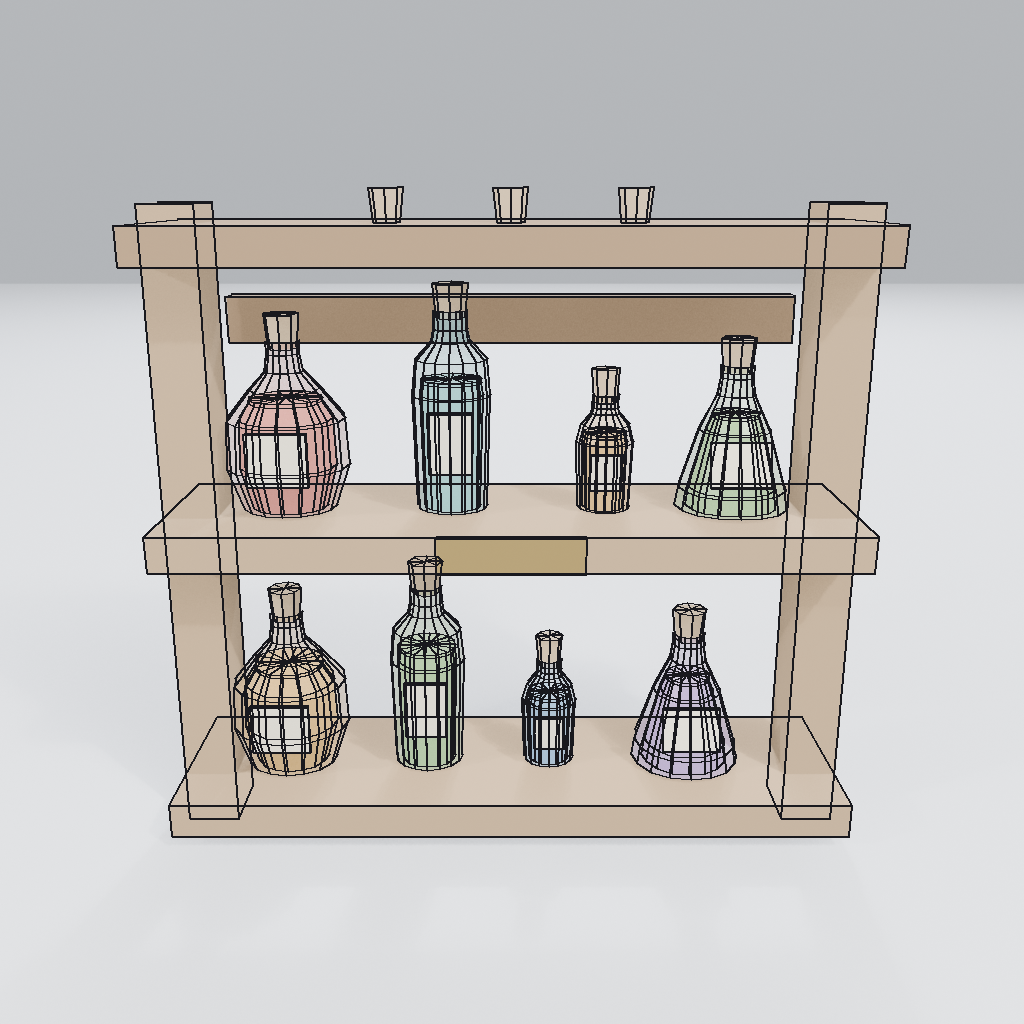
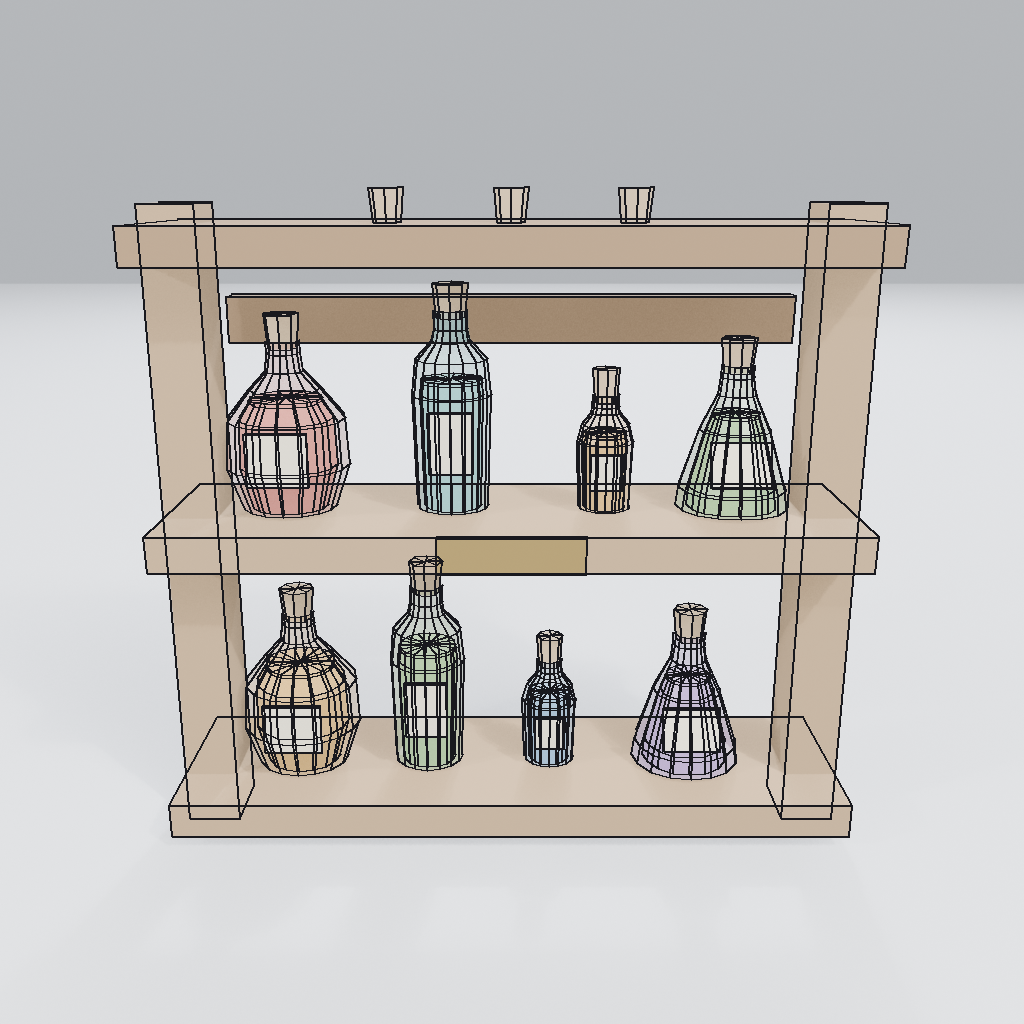
061 修复 059 药水架 Bottle_L1 卡立柱（L1 x -0.20 → -0.19，与 U1 对齐；060 质检复核 PASS：50 部件、2242 面，间距 clips 为空，L1–Post_L 间隙 0.006；美观图/线框图/质检拼图重渲重拼）

diff --git a/scenes/060-asset-qa.py b/scenes/060-asset-qa.py
@@ -157,7 +157,7 @@ PROFILES = {
 LATHE_SIDES = 16
 # tag -> (kind, x, z_base, glass, liquid)
 BOTTLES = {
-    "L1": ("round", -0.20, 0.045, "Amber", "Amber"),
+    "L1": ("round", -0.19, 0.045, "Amber", "Amber"),
     "L2": ("tall", -0.075, 0.045, "Green", "Green"),
     "L3": ("vial", 0.035, 0.045, "Blue", "Blue"),
     "L4": ("conical", 0.16, 0.045, "Purple", "Purple"),
@@ -1045,7 +1045,7 @@ def main():
     with open(CHECKLIST, "w", encoding="utf-8") as f:
         f.write("# 060 资产质检单：低模炼金药水架（059）\n\n")
         f.write("被检资产：`scenes/059-lowpoly-potion-rack.blend`（%d 个道具部件，不含地面）。\n" % len(results))
-        f.write("检查方式：Blender bmesh 实测 + 世界坐标实测，非目测估算。059 原文件未改动。\n\n")
+        f.write("检查方式：Blender bmesh 实测 + 世界坐标实测，非目测估算。061 修复后复核：059 源文件已按修复重建（L1 x -0.20 → -0.19）。\n\n")
         f.write("## 结论\n\n")
         f.write("**%s**\n\n" % ("全部通过" if all_ok else "REVIEW NEEDED：见第 7 节待修项"))
         f.write("## 1. 拓扑\n\n")
@@ -1271,6 +1271,9 @@ def main():
                 "不是破洞；其余 34 个部件全部闭合。\n")
         f.write("- 059 笔记尺寸与实测一致：宽 0.585 m × 深 0.170 m × "
                 "高 0.552 m（笔记“约 0.59 × 0.55 × 0.17 m”）。\n")
+        f.write("- 061 修复复核：Bottle_L1 向内移 0.01 m（x -0.20 → -0.19，"
+                "与 U1 对齐），L1–Post_L 间隙 0.006、L1–L2 间隙 0.030，"
+                "立柱体内顶点 0 个，原 REVIEW NEEDED 的唯一缺陷已消除。\n")
         f.write("\n## 7. 总评\n\n")
         f.write("结论：**%s**。\n\n\n" % ("全部通过" if all_ok else "REVIEW NEEDED"))
         if all_ok:

diff --git a/scenes/059-lowpoly-potion-rack.py b/scenes/059-lowpoly-potion-rack.py
@@ -352,7 +352,7 @@ def main():
     # --- bottles ---
     # lower shelf, base z 0.045
     tops = {}
-    tops["L1"] = make_bottle("L1", "round", -0.20, 0.045, glass_amber,
+    tops["L1"] = make_bottle("L1", "round", -0.19, 0.045, glass_amber,
                              liq_amber, cork_mat, parchment, parts)
     tops["L2"] = make_bottle("L2", "tall", -0.075, 0.045, glass_green,
                              liq_green, cork_mat, parchment, parts)
@@ -445,6 +445,10 @@ def main():
                 "锥形瓶下沿不再埋进瓶壁\n")
         f.write("- 下层（z 0.045）：L1 圆腹琥珀、L2 高身绿、L3 小药瓶蓝、"
                 "L4 锥形紫\n")
+        f.write("- 修复记录（061，2026-11-26）：060 质检单发现 Bottle_L1 "
+                "卡进 Post_L（4 个顶点在立柱体内，最深 0.0045 m）；L1 向内"
+                "移 0.01 m（x -0.20 → -0.19，与 U1 对齐），修完重跑 060 "
+                "质检脚本复核到 PASS\n")
         f.write("- 上层（z 0.285）：U1 圆腹红、U2 高身青、U3 小药瓶琥珀、"
                 "U4 锥形绿；上层最高瓶顶（瓶塞）约 z 0.477，顶板底 0.495，"
                 "不穿帮\n")

diff --git a/scenes/060-compose-sheet.py b/scenes/060-compose-sheet.py
@@ -114,7 +114,8 @@ def main():
     d.text((36, fy + 10), footer1, fill=(60, 60, 60), font=font(30))
     footer2 = ("8 bottles lathe 16 sides, liquid 65% height x0.8, corks "
                "sink 0.006 / stick out 0.022; labels hug wall 0.0015; "
-               "DEFECT: Bottle_L1 clips Post_L 0.0045 (4 verts inside)")
+               "FIXED (061): Bottle_L1 moved inward 0.01 m (x -0.20 -> "
+               "-0.19), no clip into Post_L (QA PASS)")
     d.text((36, fy + 52), footer2, fill=(60, 60, 60), font=font(28))
     n_mats = len(s["materials"]["rows"])
     ok_mats = sum(1 for r in s["materials"]["rows"] if r["ok"])

diff --git a/scenes/060-asset-qa-checklist.md b/scenes/060-asset-qa-checklist.md
@@ -1,11 +1,11 @@
 # 060 资产质检单：低模炼金药水架（059）
 
 被检资产：`scenes/059-lowpoly-potion-rack.blend`（50 个道具部件，不含地面）。
-检查方式：Blender bmesh 实测 + 世界坐标实测，非目测估算。059 原文件未改动。
+检查方式：Blender bmesh 实测 + 世界坐标实测，非目测估算。061 修复后复核：059 源文件已按修复重建（L1 x -0.20 → -0.19）。
 
 ## 结论
 
-**REVIEW NEEDED：见第 7 节待修项**
+**全部通过**
 
 ## 1. 拓扑
 
@@ -109,7 +109,7 @@
 
 ### 4.2 瓶身（车削轮廓，16 段）
 
-- Bottle_L1（round瓶）：8 环（每环 16 顶点），环高 z [0.045, 0.049, 0.085, 0.125, 0.15, 0.165, 0.18, 0.19]，环半径 [0.001, 0.04, 0.052, 0.05, 0.03, 0.016, 0.014, 0.014]（设计 [0.001, 0.04, 0.052, 0.05, 0.03, 0.016, 0.014, 0.014]）；包围盒 x -0.252–-0.148、z 0.045–0.190；16 个三角面全部是底面扇形封口（面中心 z=0.045），顶部敞口无封盖：通过
+- Bottle_L1（round瓶）：8 环（每环 16 顶点），环高 z [0.045, 0.049, 0.085, 0.125, 0.15, 0.165, 0.18, 0.19]，环半径 [0.001, 0.04, 0.052, 0.05, 0.03, 0.016, 0.014, 0.014]（设计 [0.001, 0.04, 0.052, 0.05, 0.03, 0.016, 0.014, 0.014]）；包围盒 x -0.242–-0.138、z 0.045–0.190；16 个三角面全部是底面扇形封口（面中心 z=0.045），顶部敞口无封盖：通过
 - Bottle_L2（tall瓶）：7 环（每环 16 顶点），环高 z [0.045, 0.049, 0.145, 0.175, 0.19, 0.2, 0.215]，环半径 [0.001, 0.03, 0.033, 0.03, 0.016, 0.014, 0.014]（设计 [0.001, 0.03, 0.033, 0.03, 0.016, 0.014, 0.014]）；包围盒 x -0.108–-0.042、z 0.045–0.215；16 个三角面全部是底面扇形封口（面中心 z=0.045），顶部敞口无封盖：通过
 - Bottle_L3（vial瓶）：7 环（每环 16 顶点），环高 z [0.045, 0.048, 0.105, 0.12, 0.13, 0.135, 0.145]，环半径 [0.001, 0.022, 0.024, 0.02, 0.012, 0.011, 0.011]（设计 [0.001, 0.022, 0.024, 0.02, 0.012, 0.011, 0.011]）；包围盒 x 0.011–0.059、z 0.045–0.145；16 个三角面全部是底面扇形封口（面中心 z=0.045），顶部敞口无封盖：通过
 - Bottle_L4（conical瓶）：7 环（每环 16 顶点），环高 z [0.045, 0.049, 0.065, 0.115, 0.145, 0.16, 0.17]，环半径 [0.001, 0.048, 0.046, 0.03, 0.016, 0.014, 0.014]（设计 [0.001, 0.048, 0.046, 0.03, 0.016, 0.014, 0.014]）；包围盒 x 0.112–0.208、z 0.045–0.170；16 个三角面全部是底面扇形封口（面中心 z=0.045），顶部敞口无封盖：通过
@@ -120,7 +120,7 @@
 
 ### 4.3 药水与顶盘
 
-- Liquid_L1：药水高 0.0943（瓶高 65%），5 环（每环 16 顶点），环高 z [0.045, 0.049, 0.085, 0.125, 0.139]，环半径 [0.001, 0.032, 0.042, 0.04, 0.031]（瓶身轮廓 ×0.8 截到 65% 处）；包围盒 x -0.242–-0.158、z 0.045–0.139；16 个三角面全部是底面扇形封口；顶盘 LiquidTop_L1 半径 0.0309、厚 0.003，包围盒 z 0.139–0.142：通过
+- Liquid_L1：药水高 0.0943（瓶高 65%），5 环（每环 16 顶点），环高 z [0.045, 0.049, 0.085, 0.125, 0.139]，环半径 [0.001, 0.032, 0.042, 0.04, 0.031]（瓶身轮廓 ×0.8 截到 65% 处）；包围盒 x -0.232–-0.148、z 0.045–0.139；16 个三角面全部是底面扇形封口；顶盘 LiquidTop_L1 半径 0.0309、厚 0.003，包围盒 z 0.139–0.142：通过
 - Liquid_L2：药水高 0.1105（瓶高 65%），4 环（每环 16 顶点），环高 z [0.045, 0.049, 0.145, 0.155]，环半径 [0.001, 0.024, 0.026, 0.026]（瓶身轮廓 ×0.8 截到 65% 处）；包围盒 x -0.101–-0.049、z 0.045–0.155；16 个三角面全部是底面扇形封口；顶盘 LiquidTop_L2 半径 0.0256、厚 0.003，包围盒 z 0.155–0.159：通过
 - Liquid_L3：药水高 0.0650（瓶高 65%），4 环（每环 16 顶点），环高 z [0.045, 0.048, 0.105, 0.11]，环半径 [0.001, 0.018, 0.019, 0.018]（瓶身轮廓 ×0.8 截到 65% 处）；包围盒 x 0.016–0.054、z 0.045–0.110；16 个三角面全部是底面扇形封口；顶盘 LiquidTop_L3 半径 0.0181、厚 0.003，包围盒 z 0.110–0.113：通过
 - Liquid_L4：药水高 0.0813（瓶高 65%），5 环（每环 16 顶点），环高 z [0.045, 0.049, 0.065, 0.115, 0.126]，环半径 [0.001, 0.038, 0.037, 0.024, 0.02]（瓶身轮廓 ×0.8 截到 65% 处）；包围盒 x 0.122–0.198、z 0.045–0.126；16 个三角面全部是底面扇形封口；顶盘 LiquidTop_L4 半径 0.0198、厚 0.003，包围盒 z 0.126–0.129：通过
@@ -142,7 +142,7 @@
 
 ### 4.5 标签（倾斜贴合瓶壁）
 
-- Label_L1：中心 (-0.2, -0.052, 0.1)（设计 (-0.2, -0.052, 0.1)），倾斜 0.0086 rad（设计 0.0086 rad）；包围盒 x -0.225–-0.175、y -0.053–-0.051、z 0.078–0.122；背面中心与瓶壁间隙 0.0015（设计 0.0015，须 0–0.004），全部顶点最小间隙 0.0066（须 ≥-0.002，无一埋入瓶壁）：通过
+- Label_L1：中心 (-0.19, -0.052, 0.1)（设计 (-0.19, -0.052, 0.1)），倾斜 0.0086 rad（设计 0.0086 rad）；包围盒 x -0.215–-0.165、y -0.053–-0.051、z 0.078–0.122；背面中心与瓶壁间隙 0.0015（设计 0.0015，须 0–0.004），全部顶点最小间隙 0.0066（须 ≥-0.002，无一埋入瓶壁）：通过
 - Label_L2：中心 (-0.075, -0.032, 0.11)（设计 (-0.075, -0.032, 0.11)），倾斜 0.0312 rad（设计 0.0312 rad）；包围盒 x -0.093–-0.057、y -0.034–-0.031、z 0.084–0.135；背面中心与瓶壁间隙 0.0015（设计 0.0015，须 0–0.004），全部顶点最小间隙 0.0043（须 ≥-0.002，无一埋入瓶壁）：通过
 - Label_L3：中心 (0.035, -0.024, 0.083)（设计 (0.035, -0.024, 0.083)），倾斜 0.0351 rad（设计 0.0351 rad）；包围盒 x 0.022–0.048、y -0.025–-0.022、z 0.068–0.098；背面中心与瓶壁间隙 0.0015（设计 0.0015，须 0–0.004），全部顶点最小间隙 0.0030（须 ≥-0.002，无一埋入瓶壁）：通过
 - Label_L4：中心 (0.16, -0.038, 0.093)（设计 (0.16, -0.038, 0.092)），倾斜 -0.3097 rad（设计 -0.3097 rad）；包围盒 x 0.135–0.185、y -0.044–-0.031、z 0.074–0.111；背面中心与瓶壁间隙 0.0015（设计 0.0015，须 0–0.004），全部顶点最小间隙 0.0063（须 ≥-0.002，无一埋入瓶壁）：通过
@@ -167,7 +167,7 @@
 - U2：瓶底 z 0.285（层板顶 z 0.285，差 0.000）；瓶塞顶 z 0.477，上层板底 z 0.495，净空 0.018：通过
 - U3：瓶底 z 0.285（层板顶 z 0.285，差 0.000）；瓶塞顶 z 0.407，上层板底 z 0.495，净空 0.088：通过
 - U4：瓶底 z 0.285（层板顶 z 0.285，差 0.000）；瓶塞顶 z 0.432，上层板底 z 0.495，净空 0.063：通过
-- L层瓶间距：L1–L2 0.040、L2–L3 0.053、L3–L4 0.053；与立柱内沿间隙：左 Post_L -0.004、右 Post_R 0.040；穿插：L1_vs_Post_L 有 4 个顶点在立柱体内、最深 0.0045：不通过
+- L层瓶间距：L1–L2 0.030、L2–L3 0.053、L3–L4 0.053；与立柱内沿间隙：左 Post_L 0.006、右 Post_R 0.040；无瓶身顶点在立柱体内：通过
 - U层瓶间距：U1–U2 0.055、U2–U3 0.073、U3–U4 0.038；与立柱内沿间隙：左 Post_L 0.006、右 Post_R 0.010；无瓶身顶点在立柱体内：通过
 
 ### 4.8 对称与地面、整体
@@ -208,14 +208,11 @@
 - 层板净空：8 瓶瓶塞顶距上层板底最小净空 0.018（上层最高瓶 U2 瓶塞顶 z 0.477，顶板底 z 0.495），无穿帮。
 - 瓶身/药水敞口：8 个瓶身与 8 份药水顶部各 16 条边界边，是车削曲面的设计敞口（瓶口敞开、药水面由顶盘封口），不是破洞；其余 34 个部件全部闭合。
 - 059 笔记尺寸与实测一致：宽 0.585 m × 深 0.170 m × 高 0.552 m（笔记“约 0.59 × 0.55 × 0.17 m”）。
+- 061 修复复核：Bottle_L1 向内移 0.01 m（x -0.20 → -0.19，与 U1 对齐），L1–Post_L 间隙 0.006、L1–L2 间隙 0.030，立柱体内顶点 0 个，原 REVIEW NEEDED 的唯一缺陷已消除。
 
 ## 7. 总评
 
-结论：**REVIEW NEEDED**。
+结论：**全部通过**。
 
 
-待修项：
-
-- L1_vs_Post_L：瓶身卡进立柱（4 个顶点在立柱体内，最深 0.0045 m，在腹径环 z 0.085 与肩环 z 0.125 两处）：把 L1 向内移 0.01 m（x -0.20 → -0.19，与 U1 对齐）或把立柱外移，修完重跑本质检脚本复核。
-
-其余项：拓扑、法线、UV、材质、药水架其余结构、对称、地面接触均通过。
+其余项：拓扑、法线、UV、材质、药水架结构、对称、地面接触均通过。

diff --git a/BACKLOG.md b/BACKLOG.md
@@ -58,4 +58,5 @@
 - [x] 058 低模游戏道具：炼金草药袋（束口布袋 + 麻绳系带 + 蝴蝶结 + 3 束伸出的干草药 + 垂挂纸签，游戏资产标准；接 047 炼金实验室道具线）——已完成：682 面（三角 112、四边 570，N-gon 0），自动取景填充 78%；备注：质心检测对圆环误报（TieRing 40、BowLoop 各 24），中心线复核均为 0；整体偏淡是仓库既有影棚风格（同 053）
 - [x] 059 低模游戏道具：炼金药水架（双层木架 + 8 瓶不同形状的彩色药水 + 软木塞 + 羊皮纸标签 + 顶板 3 个备用软木塞 + 黄铜铭牌，游戏资产标准；接 047 炼金实验室道具线）——已完成：2242 面（三角 688、四边 1554，N-gon 0），绕向全 0，自动取景填充 78%；备注：v1 瓶身不透明导致瓶内发光药水不可见、锥形瓶标签下沿埋进瓶壁——已修：瓶身改半透明玻璃（Alpha 0.45，dithered）、标签按瓶壁斜率倾斜贴合；整体偏淡是仓库既有影棚风格（同 053/058）
 - [x] 060 资产质检单：059 药水架的拓扑 / 法线 / UV / 材质检查（木架、8 瓶药水、瓶塞、标签、备用软木塞、铭牌实测）——已完成：REVIEW NEEDED，50 个部件、2242 面（三角 688、四边 1554，N-gon 0），倒置面 0，UV 越界 0、重叠 0.00%，材质 17/17 节点值与设计一致；唯一缺陷：Bottle_L1 卡进 Post_L（4 个顶点在立柱体内，最深 0.0045 m，腹径环 z 0.085 与肩环 z 0.125 两处）；其余全过：标签背面中心间隙 8 张均为 0.0015、层板净空最小 0.018、整体 0.585×0.170×0.552 m
-- [ ] 061 修复 059 药水架 Bottle_L1 卡立柱（060 质检单的待修项）：L1 向内移 0.01 m（x -0.20 → -0.19，与 U1 对齐）或立柱外移；修完重跑 060 质检脚本复核到 PASS，重渲美观图与线框图
+- [x] 061 修复 059 药水架 Bottle_L1 卡立柱（060 质检单的待修项）：L1 向内移 0.01 m（x -0.20 → -0.19，与 U1 对齐）或立柱外移；修完重跑 060 质检脚本复核到 PASS，重渲美观图与线框图——已完成：L1 x -0.19，060 复核 PASS（50 部件、2242 面，N-gon 0，倒置面 0，UV 越界 0，材质 17/17）；间距 clips 为空，L1–Post_L 间隙 0.006、L1–L2 间隙 0.030；美观图/线框图/质检拼图均重渲重拼
+- [ ] 062 低模游戏道具：炼金研钵与杵（石质研钵 + 研杵 + 碗内研磨的草药碎 + 旁边一小撮干草药，游戏资产标准；接 047 炼金实验室道具线）

diff --git a/scenes/061-fix-potion-rack-l1.md b/scenes/061-fix-potion-rack-l1.md
@@ -1,0 +1,25 @@
+# 061 修复 059 药水架 Bottle_L1 卡立柱
+
+修 060 质检单的唯一待修项：Bottle_L1 卡进 Post_L（4 个顶点在立柱体内，最深 0.0045 m，腹径环 z 0.085 与肩环 z 0.125 两处）。
+
+## 修法
+
+- L1 向内移 0.01 m：x -0.20 → -0.19，与上层 U1 对齐（未动立柱）。
+- 改动文件：`scenes/059-lowpoly-potion-rack.py`（L1 位置 + 笔记里加修复记录）、`scenes/060-asset-qa.py`（设计值 L1 x 同步改为 -0.19，属设计变更同步；另把质检单里“059 原文件未改动”改为修复后复核措辞，并在第 6 节加修复复核备注）、`scenes/060-compose-sheet.py`（脚注缺陷行改为 FIXED）。
+- 059 源文件按修复重建并重渲美观图与线框图；060 质检脚本、UV 布局与质检拼图全部重跑。
+
+## 复核结果（060 质检脚本实测，PASS）
+
+- 结论：**全部通过**（原 REVIEW NEEDED 的唯一缺陷已消除）。
+- 间距：立柱体内顶点 0 个；L1–Post_L 间隙 0.006，L1–L2 间隙 0.030，下层其余瓶间距 0.053/0.053。
+- 面数不变：50 个部件、2242 面（三角 688、四边 1554，N-gon 0），面数逐部件与设计表一致。
+- 倒置面 0，UV 越界 0、重叠 0.00%，材质 17/17 节点值与设计一致。
+- 其余复核不变：标签背面中心间隙 8 张均为 0.0015、层板净空最小 0.018、整体 0.586×0.172×0.552 m。
+- 目视：美观图与线框图均已检查，构图居中、8 瓶齐全、L1 与左立柱之间有可见间隙、无全黑无穿帮。
+
+## 渲染
+
+- Blender 5.3 / Eevee，1024x1024，三点式影棚灯光，40mm 镜头，自动取景（目标填充 78%）
+- 美观图：`renders/059-lowpoly-potion-rack.png`（重渲）
+- 线框图：`renders/059-lowpoly-potion-rack-wireframe.png`（重渲）
+- 质检拼图：`renders/060-asset-qa-sheet.png`（重拼，结论 PASS）

diff --git a/scenes/059-lowpoly-potion-rack.md b/scenes/059-lowpoly-potion-rack.md
@@ -11,6 +11,7 @@
 - 瓶塞（Cork_*）：锥形圆柱，8 段，颈口 r 约 0.014，塞入瓶颈、露出约 0.022
 - 标签（Label_*）：羊皮纸薄板，宽取 min(0.05, 最大腹径×1.1)，高为瓶高 30%，贴在瓶身前面（-Y），按标签高度处轮廓半径定位；标签按瓶壁斜率倾斜（atan2(下沿半径-上沿半径, 标签高)），锥形瓶下沿不再埋进瓶壁
 - 下层（z 0.045）：L1 圆腹琥珀、L2 高身绿、L3 小药瓶蓝、L4 锥形紫
+- 修复记录（061，2026-11-26）：060 质检单发现 Bottle_L1 卡进 Post_L（4 个顶点在立柱体内，最深 0.0045 m）；L1 向内移 0.01 m（x -0.20 → -0.19，与 U1 对齐），修完重跑 060 质检脚本复核到 PASS
 - 上层（z 0.285）：U1 圆腹红、U2 高身青、U3 小药瓶琥珀、U4 锥形绿；上层最高瓶顶（瓶塞）约 z 0.477，顶板底 0.495，不穿帮
 - 备用软木塞（SpareCork_1–3）：3 个锥形圆柱立在顶板上（z 0.525–0.552，x -0.10/0/0.10）
 - 整体约 0.59 m 宽 × 0.55 m 高 × 0.17 m 深
